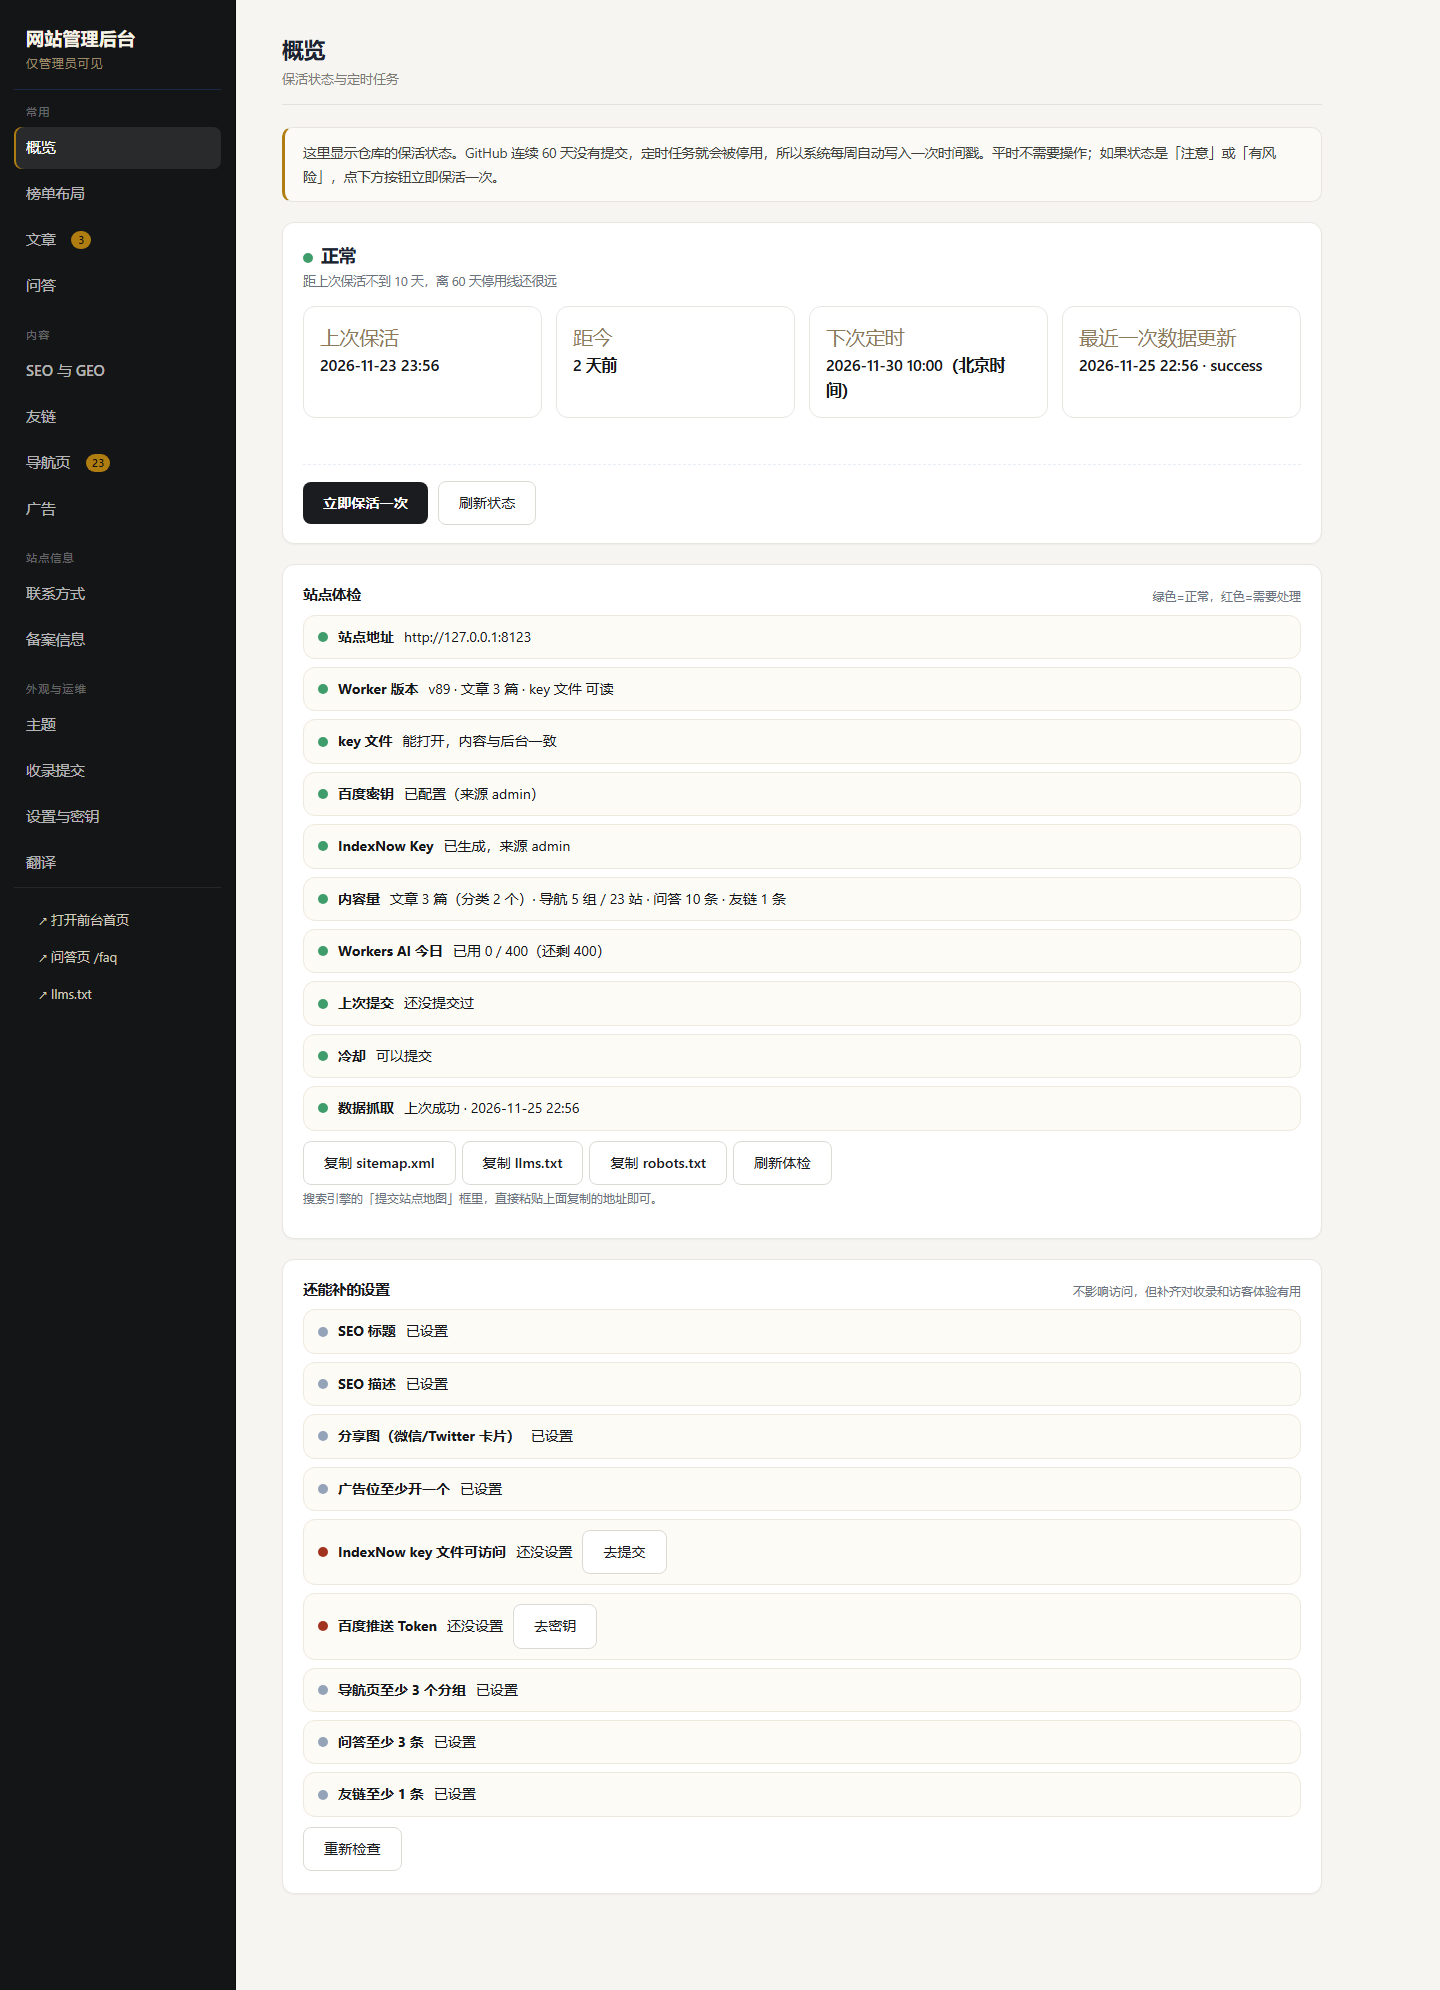
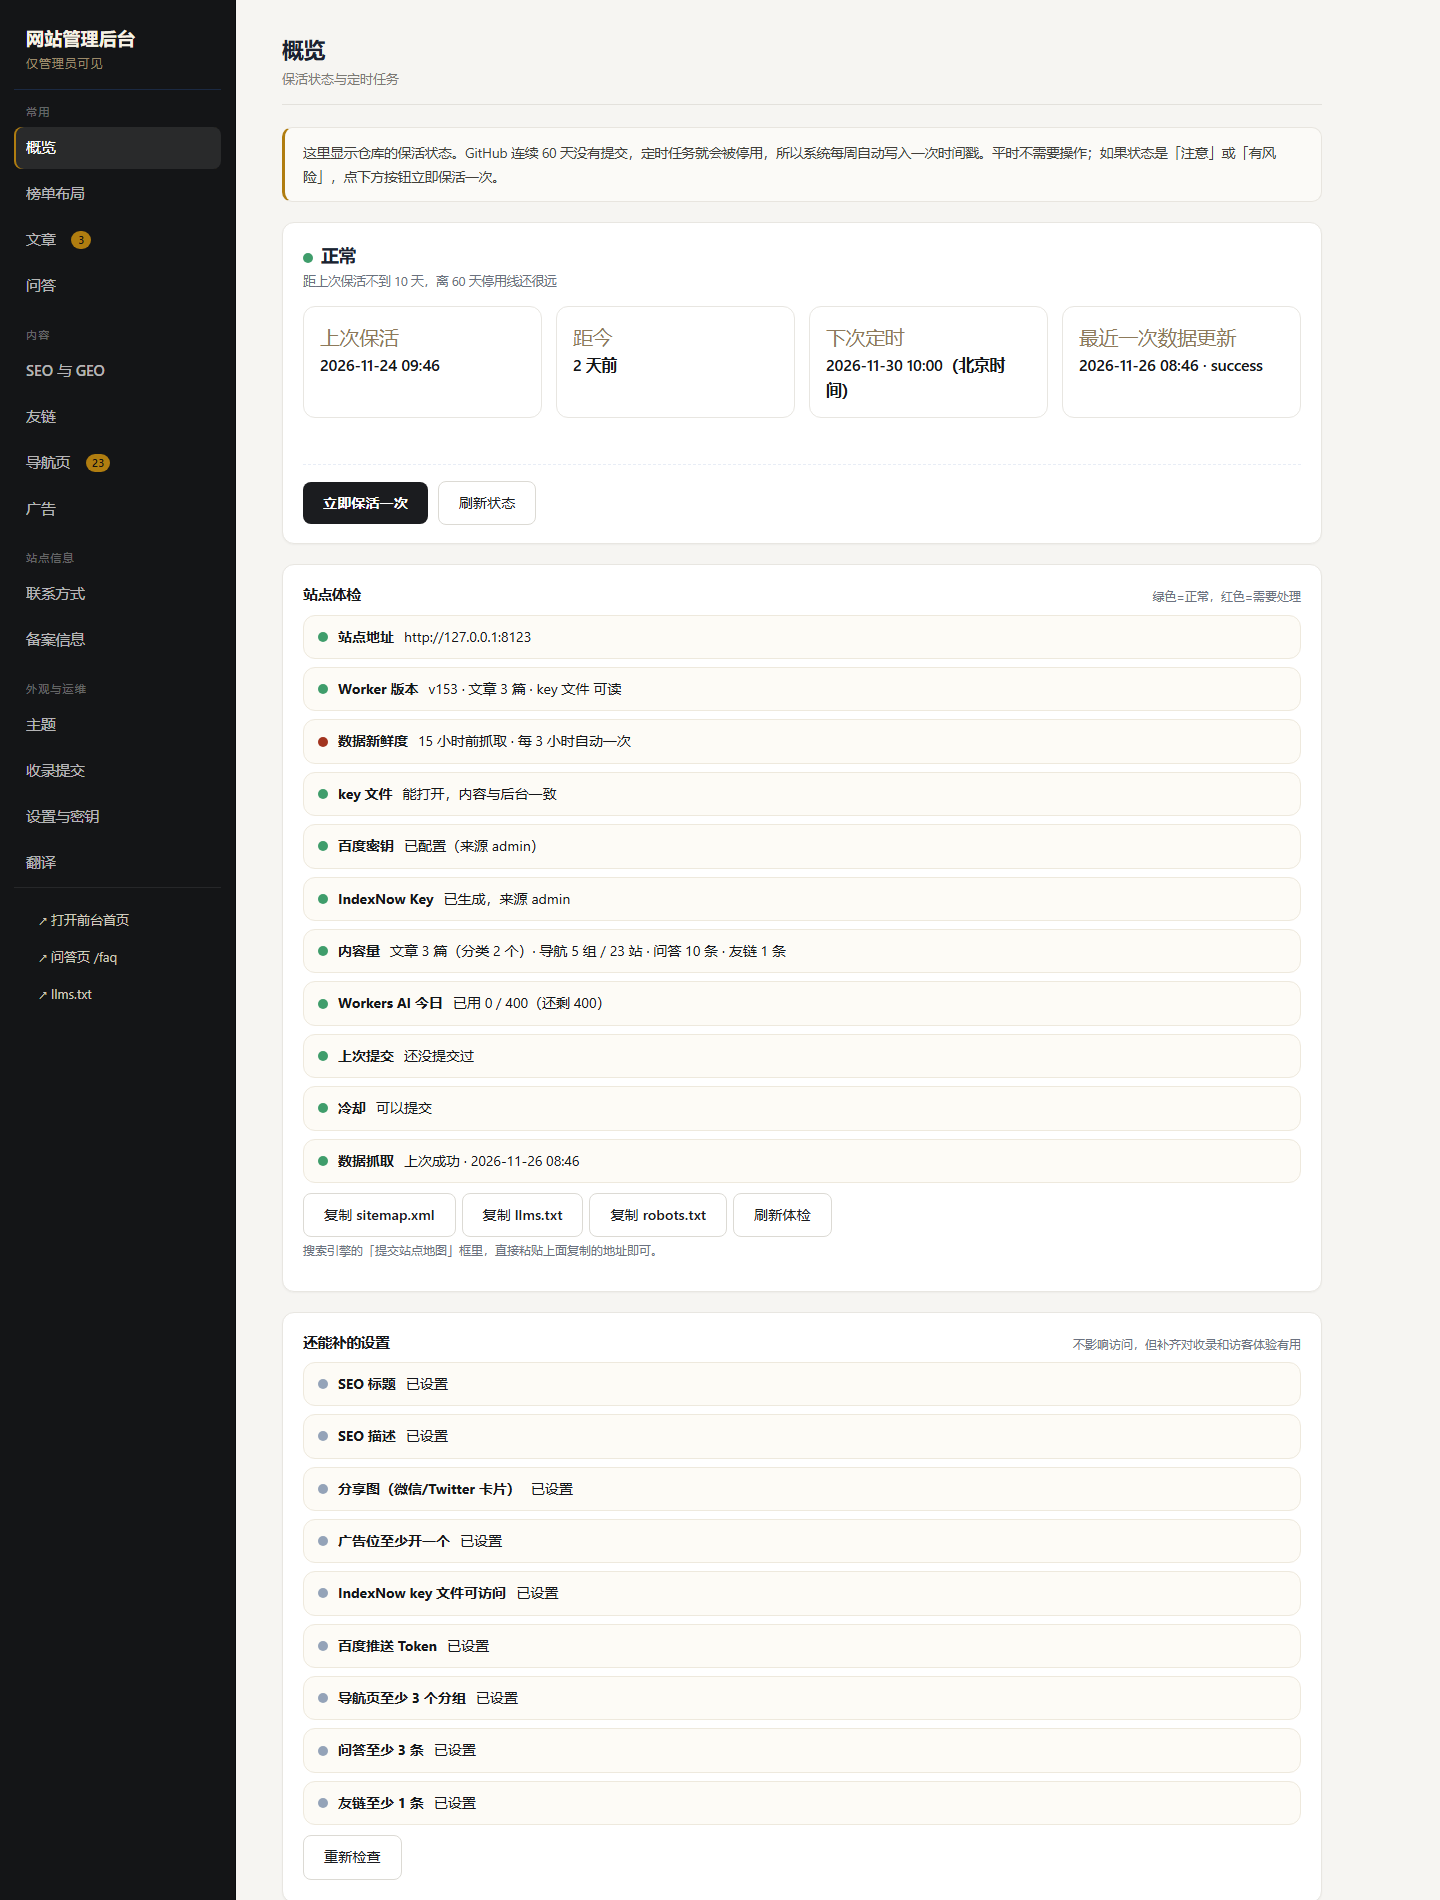
fix: 概览「还能补的设置」读 /api/submit 漏 .status 导致 IndexNow/百度恒红; 体检合并为单请求 /api/health 超集; v154

diff --git a/worker.js b/worker.js
@@ -1630,7 +1630,7 @@ async function injectFaqLd(env, html) {
 
 // 静态资源版本：HTML 里的 /js/*.js 都会被加上 ?v=<这里>，于是能给浏览器一年 immutable；
 // 改了前端就把它 +1（不然用户浏览器会抱着一周的旧 bundle，界面上去点了没反应）
-const ASSET_V = 'v153';
+const ASSET_V = 'v154';
 
 function emptyNav() {
   return { updatedAt: '', groups: [] };
@@ -2104,12 +2104,15 @@ async function handleHealth(env, origin) {
   const rt = await siteRuntime(env);
   const key = indexNowKey(env, rt);
   let keyFileOk = null;
+  let keyNote = '';
   try {
     const r = await fetch(origin + '/' + key + '.txt', { cf: { cacheTtl: 0 } });
     const body = r.ok ? (await r.text()).trim() : '';
     keyFileOk = r.ok && body === key;
+    keyNote = r.ok ? body.slice(0, 60) : ('HTTP ' + r.status);
   } catch (e) {
     keyFileOk = false;
+    keyNote = '抓取失败：' + ((e && e.message) || 'network');
   }
   let counts = null;
   try { counts = await countsOf(env); } catch (e) { counts = null; }
@@ -2130,6 +2133,13 @@ async function handleHealth(env, origin) {
   } catch (e) { dataAge = null; }
   let st = null;
   try { st = await getStatusCached(env); } catch (e) {}
+  const baiduNow = baiduTokenOf(env, rt);
+  const last = await readLastSubmit();
+  const cooldownSec = (function (x) {
+    if (!x || !x.at) return 0;
+    const gap = Date.now() - new Date(x.at).getTime();
+    return gap < 600000 ? Math.ceil((600000 - gap) / 1000) : 0;
+  })(last);
   return json({
     ok: true,
     version: ASSET_V,
@@ -2141,6 +2151,23 @@ async function handleHealth(env, origin) {
     keyFileOk: keyFileOk,
     counts: counts,
     dataAge: dataAge,
+    level: st ? st.level : '',
+    stateNote: st ? st.stateNote : '',
+    lastKeepalive: st ? st.lastKeepalive : '',
+    age: st ? st.age : null,
+    next: st ? st.next : '',
+    translator: translatorStatus(env, rt),
+    submit: {
+      keyFileOk: keyFileOk,
+      keyFileMatch: keyFileOk,
+      keyFileNote: keyNote,
+      indexNowKey: key,
+      indexKeySource: rt && rt.indexNowKey ? 'admin' : (env.INDEXNOW_KEY ? 'env' : 'auto'),
+      baiduToken: !!baiduNow,
+      baiduTokenSource: (rt && rt.baiduToken) ? 'admin' : (env.BAIDU_TOKEN ? 'env' : 'none'),
+      lastRun: last,
+      cooldown: { seconds: cooldownSec },
+    },
   });
 }
 
@@ -4668,12 +4695,22 @@ tr:hover td{background:#fcfbf8}
     var box = $('healthBox');
     if (!box) return;
     box.innerHTML = '<div class="empty">加载中…</div>';
-    Promise.all([
-      api('/api/submit').catch(function () { return null; }),
-      api('/api/health').catch(function () { return null; })
-    ]).then(function (res) {
-      var sub = res[0] && res[0].status;
-      var h = res[1] || null;
+    api('/api/health').catch(function () { return null; }).then(function (h) {
+      h = h || null;
+      // 体检只发一个请求：/api/health 现在带 submit 与状态细节
+      var sub = h && h.submit ? {
+        keyFileOk: h.submit.keyFileOk,
+        keyFileMatch: h.submit.keyFileMatch,
+        keyFileNote: h.submit.keyFileNote,
+        indexNowKey: h.submit.indexNowKey,
+        indexKeySource: h.submit.indexKeySource,
+        baiduToken: h.submit.baiduToken,
+        baiduTokenSource: h.submit.baiduTokenSource,
+        lastRun: h.submit.lastRun,
+        cooldown: h.submit.cooldown,
+        counts: h.counts,
+        sitemap: location.origin + '/sitemap.xml'
+      } : null;
       var ai = (h && h.ai) || null;
       var rows = [];
       var sm = (sub && sub.sitemap) || 'https://github.661026.xyz/sitemap.xml';
@@ -5991,26 +6028,17 @@ tr:hover td{background:#fcfbf8}
       out.push(todoRow(!!seo.ogImage, '分享图（微信/Twitter 卡片）', 'seo', '设置'));
       out.push(todoRow(anyAd, '广告位至少开一个', 'ad', '广告'));
     } catch (e) {}
+    var todoCounts = null;
     try {
-      var sub = await api('/api/submit');
-      out.push(todoRow(!!sub.keyFileOk, 'IndexNow key 文件可访问', 'submit', '提交'));
-      out.push(todoRow(!!sub.baiduToken, '百度推送 Token', 'keys', '密钥'));
+      var hh = await api('/api/health');
+      var hs = (hh && hh.submit) || {};
+      todoCounts = (hh && hh.counts) || null;
+      out.push(todoRow(!!hs.keyFileOk, 'IndexNow key 文件可访问', 'submit', '提交'));
+      out.push(todoRow(!!hs.baiduToken, '百度推送 Token', 'keys', '密钥'));
     } catch (e) {}
-    try {
-      var nv = await api('/api/nav');
-      var gs = (nv && nv.nav && nv.nav.groups) || [];
-      out.push(todoRow(gs.length >= 3, '导航页至少 3 个分组', 'nav', '导航'));
-    } catch (e) {}
-    try {
-      var qa = await api('/api/qa');
-      var items = (qa && qa.qa && qa.qa.items) || (qa && qa.items) || [];
-      out.push(todoRow(items.length >= 3, '问答至少 3 条', 'qa', '问答'));
-    } catch (e) {}
-    try {
-      var lk = await api('/api/links');
-      var links = (lk && lk.links) || [];
-      out.push(todoRow(links.length >= 1, '友链至少 1 条', 'links', '友链'));
-    } catch (e) {}
+    out.push(todoRow(!!(todoCounts && todoCounts.navGroups >= 3), '导航页至少 3 个分组', 'nav', '导航'));
+    out.push(todoRow(!!(todoCounts && todoCounts.qa >= 3), '问答至少 3 条', 'qa', '问答'));
+    out.push(todoRow(!!(todoCounts && todoCounts.links >= 1), '友链至少 1 条', 'links', '友链'));
     box.innerHTML = '';
     out.forEach(function (row) { box.appendChild(row); });
   }

diff --git a/sw.js b/sw.js
@@ -1,5 +1,5 @@
 /* Service Worker：缓存页面外壳（HTML/JS/图标），让离线也能打开；GitHub API 不缓存，由页面自己的 localStorage 管理 */
-const CACHE = 'ghrank-shell-v153';
+const CACHE = 'ghrank-shell-v154';
 const SHELL = ['./', 'index.html', 'js/bundle.js', 'js/md.js', 'manifest.json', 'icon.svg'];
 // 只预缓存 meta（约 2KB）。榜单数据按 range 分文件、由页面按需加载，不再在安装时白下几�?KB
 const DATA = 'data/repos-meta.js';
